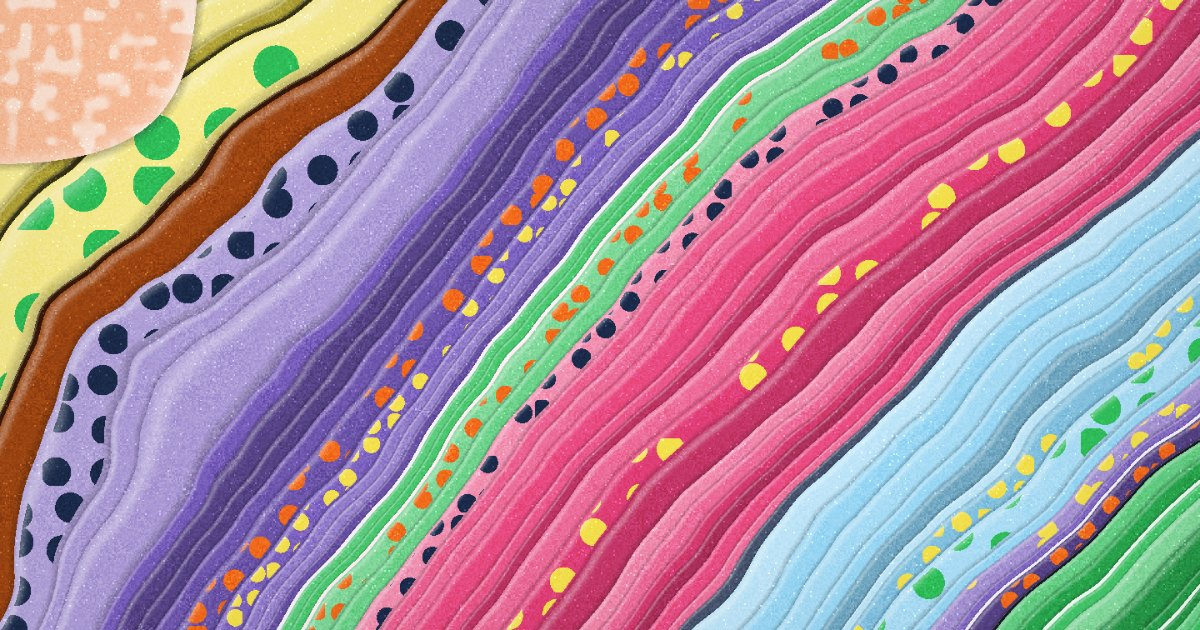
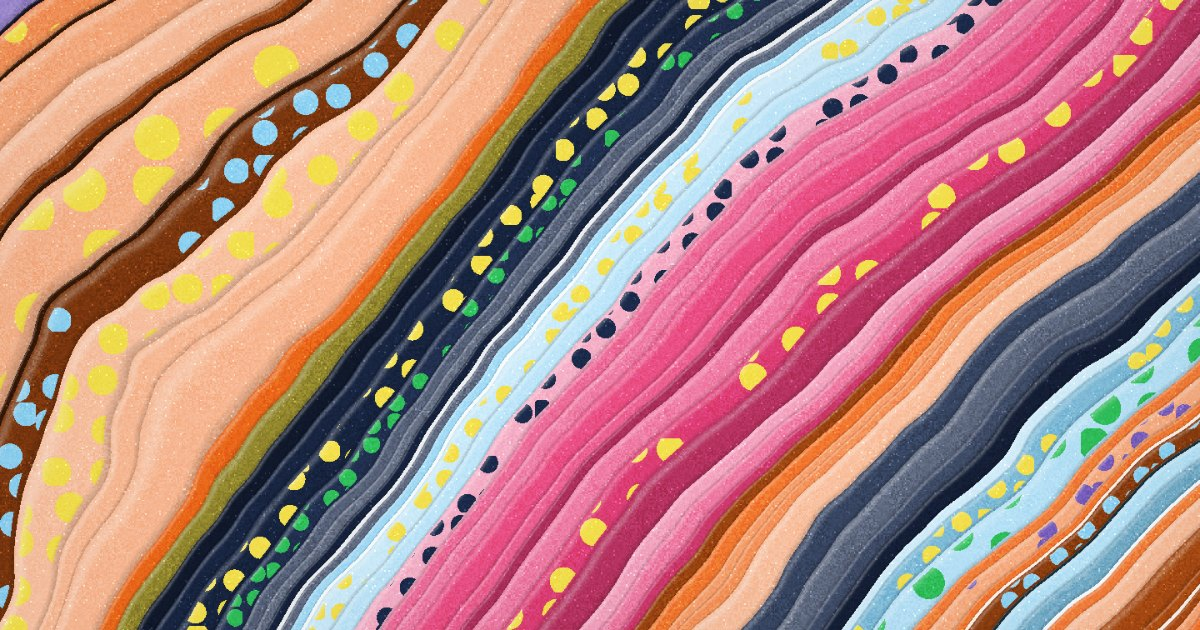
Pour: the pools go
The dappled pools and their dial are removed; the sheet is the band
run alone, glossed and spotted.

Claude-Session: https://claude.ai/code/session_01Hb5jk9z6h4o1AzZNFzskh6

diff --git a/pour/index.html b/pour/index.html
@@ -10,7 +10,7 @@
 <link rel="canonical" href="https://playgrnd.tools/pour">
 <meta property="og:site_name" content="playgrnd">
 <meta property="og:title" content="Pour — playgrnd">
-<meta property="og:description" content="Generate poured-paint backgrounds — bands of every width sweeping across the sheet in runs of your inks and their tints, glossy, with dappled pools and spotted bands. Deal a new variation or turn the dials. Exports image and video.">
+<meta property="og:description" content="Generate poured-paint backgrounds — bands of every width sweeping across the sheet in runs of your inks and their tints, glossy, some of them spotted. Deal a new variation or turn the dials. Exports image and video.">
 <meta property="og:type" content="website">
 <meta property="og:url" content="https://playgrnd.tools/pour">
 <meta property="og:image" content="https://playgrnd.tools/pour/og.jpg">
@@ -19,9 +19,9 @@
 <meta property="og:image:alt" content="Artwork made with Pour.">
 <meta name="twitter:card" content="summary_large_image">
 <meta name="twitter:title" content="Pour — playgrnd">
-<meta name="twitter:description" content="Generate poured-paint backgrounds — bands of every width sweeping across the sheet in runs of your inks and their tints, glossy, with dappled pools and spotted bands.">
+<meta name="twitter:description" content="Generate poured-paint backgrounds — bands of every width sweeping across the sheet in runs of your inks and their tints, glossy, some of them spotted.">
 <meta name="twitter:image" content="https://playgrnd.tools/pour/og.jpg">
-<meta name="description" content="Generate poured-paint backgrounds — bands of every width sweeping across the sheet in runs of your inks and their tints, glossy, with dappled pools and spotted bands. Deal a new variation or turn the dials. Exports image and video.">
+<meta name="description" content="Generate poured-paint backgrounds — bands of every width sweeping across the sheet in runs of your inks and their tints, glossy, some of them spotted. Deal a new variation or turn the dials. Exports image and video.">
 <link rel="stylesheet" href="https://fonts.googleapis.com/css2?family=DM+Mono&display=swap">
 <style>
 :root{
@@ -637,8 +637,7 @@ input[type=range]{accent-color:var(--ink)}
         <div class="pr"><div class="top"><span class="k">Vary</span><span class="v" id="varyVal">60%</span></div><div class="track"><input type="range" id="vary" min="0" max="1" step="0.01" value="0.6"></div></div>
         <div class="pr"><div class="top"><span class="k">Curve</span><span class="v" id="curveVal">50%</span></div><div class="track"><input type="range" id="curve" min="0" max="1" step="0.01" value="0.5"></div></div>
         <div class="pr"><div class="top"><span class="k">Wobble</span><span class="v" id="wobbleVal">35%</span></div><div class="track"><input type="range" id="wobble" min="0" max="1" step="0.01" value="0.35"></div></div></div></details>
-    <details class="grp"><summary>Paint</summary><div class="grp-b"><div class="pr"><div class="top"><span class="k">Pools</span><span class="v" id="poolsVal">35%</span></div><div class="track"><input type="range" id="pools" min="0" max="1" step="0.01" value="0.35"></div></div>
-        <div class="pr"><div class="top"><span class="k">Spots</span><span class="v" id="spotsVal">30%</span></div><div class="track"><input type="range" id="spots" min="0" max="1" step="0.01" value="0.3"></div></div>
+    <details class="grp" open><summary>Paint</summary><div class="grp-b"><div class="pr"><div class="top"><span class="k">Spots</span><span class="v" id="spotsVal">30%</span></div><div class="track"><input type="range" id="spots" min="0" max="1" step="0.01" value="0.3"></div></div>
         <div class="pr"><div class="top"><span class="k">Gloss</span><span class="v" id="glossVal">60%</span></div><div class="track"><input type="range" id="gloss" min="0" max="1" step="0.01" value="0.6"></div></div>
         <div class="pr"><div class="top"><span class="k">Tints</span><span class="v" id="tintsVal">60%</span></div><div class="track"><input type="range" id="tints" min="0" max="1" step="0.01" value="0.6"></div></div>
         <div class="pr"><div class="top"><span class="k">Runs</span><span class="v" id="runsVal">50%</span></div><div class="track"><input type="range" id="runs" min="0" max="1" step="0.01" value="0.5"></div></div></div></details><div class="tog-grp"><button class="pillbtn" id="motionTog" aria-pressed="false">Animate<span class="sw" aria-hidden="true"></span></button><div class="group" id="motionBody" hidden><div class="misc stack"><span class="mhead"><span class="k">Movement</span></span><span class="mval"><div class="chips" id="modes"></div></span></div>
@@ -751,8 +750,8 @@ const GRAIN_DEFAULT={on:true,blend:"overlay",amount:0.35,size:1,specks:0.35,vign
 
 /* Every ink is an anchor: the bands take the inks in runs, and the many
    thin bands between take lighter and darker tints of them, so a set of
-   seven reads as dozens of stripes. The pools take a pale tint of an ink,
-   and a spotted band carries dots of another. */
+   seven reads as dozens of stripes, and a spotted band carries dots of
+   another. */
 const PALETTES=[
   ["#E8407A","#F26A1B","#F4E04D","#2FBF5A","#8FD3F4","#7A5FBF","#1B2A4A"],
   ["#FF3D7A","#FFB020","#3DE0FF","#12102A","#F2F2F0","#00E5A8"],
@@ -763,15 +762,15 @@ const PALETTES=[
 ];
 
 /* Poured paint seen edge-on: a run of bands of every width, hairline to
-   broad, sweeping across the sheet, glossy, with dappled pools breaking
-   the run and spots riding some of the bands. Every setting is a dial and
+   broad, sweeping across the sheet, glossy, with spots riding some of
+   the bands. Every setting is a dial and
    the same dials always give the same sheet. The variation number deals a
    fresh set of dials and shows the deal on the dials, so a dealt sheet can
    be adjusted from where it landed. */
 const S={
   seed:7, ratio:"3:4",
   flow:"pour", bands:0.5, vary:0.6, curve:0.5, wobble:0.35,
-  pools:0.35, spots:0.3, gloss:0.6, tints:0.6, runs:0.5,
+  spots:0.3, gloss:0.6, tints:0.6, runs:0.5,
   pal:PALETTES[0].slice(),
   motion:{on:false,mode:"sway",amount:0.6,fps:12,frames:36},
   size_px:2400
@@ -802,12 +801,11 @@ function dealP(seed){
   S.vary=0.4+r()*0.5;
   S.curve=0.3+r()*0.5;
   S.wobble=0.2+r()*0.4;
-  S.pools=0.15+r()*0.4;
   S.spots=0.1+r()*0.4;
   S.gloss=0.4+r()*0.5;
   S.tints=0.4+r()*0.5;
   S.runs=0.3+r()*0.5;
-  for(const k of ["bands","vary","curve","wobble","pools","spots","gloss","tints","runs"]) S[k]=Math.round(S[k]*100)/100;
+  for(const k of ["bands","vary","curve","wobble","spots","gloss","tints","runs"]) S[k]=Math.round(S[k]*100)/100;
 }
 function rgbP(h){
   h=(h||"#000").replace("#","");
@@ -828,7 +826,7 @@ function paint(c,W,H,f){
   const inks=raw.map(rgbP), NI=inks.length;
   const U=Math.sqrt(W*H);
   const seed=S.seed|0;
-  const sd1=seed*7+1, sd2=seed*7+2, sd3=seed*7+3, sd4=seed*7+4;
+  const sd1=seed*7+1, sd2=seed*7+2, sd4=seed*7+4;
 
   /* ---- motion ----
      Sway walks the wobble round a small circle, so the bands lean and come
@@ -849,12 +847,12 @@ function paint(c,W,H,f){
 
   /* ---- the band coordinate, on a two-pixel grid ----
      which band a point sits on, worked out once for every other pixel and
-     read back smoothly, with the pool field beside it */
+     read back smoothly */
   const fw=(W>>1)+3, fh=(H>>1)+3;
-  if(!GRP||GRP.length!==fw*fh*2) GRP=new Float32Array(fw*fh*2);
+  if(!GRP||GRP.length!==fw*fh) GRP=new Float32Array(fw*fh);
   let pmin=1e9, pmax=-1e9;
   for(let j=0,i=0;j<fh;j++){
-    for(let i2=0;i2<fw;i2++,i+=2){
+    for(let i2=0;i2<fw;i2++,i++){
       const u=(i2*2-2)/U, v=(j*2-2)/U;
       let p;
       if(flow==="pour"){
@@ -873,8 +871,6 @@ function paint(c,W,H,f){
       if(wob>0) p+=wob*0.05*(vnP(u*7+swy+4,v*7+swx+7,sd2)-0.5)*2+wob*0.012*(vnP(u*22+swx+9,v*22+swy+3,sd2)-0.5)*2;
       p*=U;
       GRP[i]=p; if(p<pmin) pmin=p; if(p>pmax) pmax=p;
-      /* the pools: a slow field, stretched along the bands */
-      GRP[i+1]=vnP(u*2.2+11,v*2.2+5,sd3)*0.7+vnP(u*5+3,v*5+9,sd3)*0.3;
     }
   }
 
@@ -914,13 +910,6 @@ function paint(c,W,H,f){
   const LUT=new Int16Array(LN+1);
   for(let k=0,n=0;n<=LN;n++){ const p=lo+n/lscale; while(k<2*M2&&edges[k+1]<p) k++; LUT[n]=k; }
 
-  /* ---- the pools ---- */
-  const thr=0.78-S.pools*0.3;
-  const poolInk=(hshP(3,3,seed)*NI)|0, poolInk2=(poolInk+2)%NI;
-  const pcol=tintP(inks[poolInk],0.55), pcol2=tintP(inks[poolInk2],0.25);
-  const plight=tintP(inks[poolInk],0.8), plight2=tintP(inks[poolInk2],0.5);
-  const mot=U*0.014;
-
   const gl=S.gloss;
   if(!BUFP||BUFP.width!==W||BUFP.height!==H) BUFP=c.createImageData(W,H);
   const px=BUFP.data;
@@ -929,9 +918,8 @@ function paint(c,W,H,f){
     const gy=(y+2)*0.5, yi=gy|0, yf=gy-yi;
     for(let x=0;x<W;x++,p+=4){
       const gx=(x+2)*0.5, xi=gx|0, xf=gx-xi;
-      const k=(yi*fw+xi)*2;
-      const phi=(GRP[k]*(1-xf)+GRP[k+2]*xf)*(1-yf)+(GRP[k+fw*2]*(1-xf)+GRP[k+fw*2+2]*xf)*yf;
-      const pool=(GRP[k+1]*(1-xf)+GRP[k+3]*xf)*(1-yf)+(GRP[k+fw*2+1]*(1-xf)+GRP[k+fw*2+3]*xf)*yf;
+      const k=yi*fw+xi;
+      const phi=(GRP[k]*(1-xf)+GRP[k+1]*xf)*(1-yf)+(GRP[k+fw]*(1-xf)+GRP[k+fw+1]*xf)*yf;
       /* the band under this point */
       let n=((phi-lo)*lscale)|0; if(n<0) n=0; else if(n>LN) n=LN;
       let b=LUT[n];
@@ -955,19 +943,6 @@ function paint(c,W,H,f){
         const hl=Math.exp(-d*d)*gl*0.42;
         R+=(255-R)*hl; G+=(255-G)*hl; B+=(255-B)*hl;
         if(fr>0.82){ const sh=(fr-0.82)/0.18*gl*0.3; R*=1-sh; G*=1-sh; B*=1-sh; }
-      }
-      /* the pools, dappled, with a wet rim */
-      if(pool>thr){
-        const which=pool>thr+0.13&&hshP(Math.floor(x/(U*0.3)),Math.floor(y/(U*0.3)),seed)<0.5;
-        const pc=which?pcol2:pcol, pl=which?plight2:plight;
-        const m=vnP(x/mot+5,y/mot+9,sd4);
-        const cel=Math.max(0,Math.min(1,(m-0.5)*4));
-        R=pc[0]+(pl[0]-pc[0])*cel; G=pc[1]+(pl[1]-pc[1])*cel; B=pc[2]+(pl[2]-pc[2])*cel;
-        const rim=Math.max(0,1-(pool-thr)/0.035)*gl*0.5;
-        R+=(255-R)*rim; G+=(255-G)*rim; B+=(255-B)*rim;
-      }else if(pool>thr-0.02&&gl>0){
-        /* the paint darkens where a pool has crept over it */
-        const sh=(1-(thr-pool)/0.02)*gl*0.35; R*=1-sh; G*=1-sh; B*=1-sh;
       }
       px[p]=R; px[p+1]=G; px[p+2]=B; px[p+3]=255;
     }
@@ -1233,7 +1208,7 @@ $("#rotColors").addEventListener("click",()=>{
   setPalette([S.pal[0]].concat(S.pal.slice(2),[S.pal[1]]));
 });
 const pc=v=>Math.round(v*100)+"%";
-for(const k of ["bands","vary","curve","wobble","pools","spots","gloss","tints","runs"]) bindRange(k,pc,v=>S[k]=v);
+for(const k of ["bands","vary","curve","wobble","spots","gloss","tints","runs"]) bindRange(k,pc,v=>S[k]=v);
 bindRange("amt",v=>v.toFixed(2),v=>S.motion.amount=v);
 $("#fps").addEventListener("input",e=>{S.motion.fps=parseInt(e.target.value,10);
   $("#fpsVal").textContent=S.motion.fps+" fps";if(playing)setPlaying(true);});
@@ -1259,7 +1234,7 @@ function newSeed(v){
      adjusted from where it landed */
   const put=(id,val,txt)=>{const e=$("#"+id),l=$("#"+id+"Val");if(e)e.value=val;if(l)l.textContent=txt;};
   const pc=v=>Math.round(v*100)+"%";
-  for(const k of ["bands","vary","curve","wobble","pools","spots","gloss","tints","runs"]) put(k,S[k],pc(S[k]));
+  for(const k of ["bands","vary","curve","wobble","spots","gloss","tints","runs"]) put(k,S[k],pc(S[k]));
   buildSwatches(); accent();
   reframe();
 }
